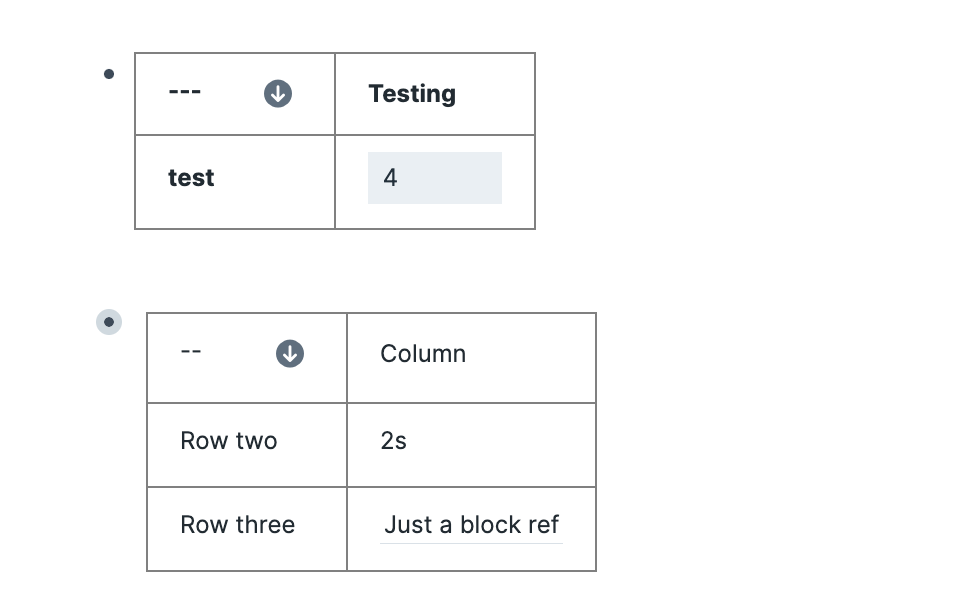
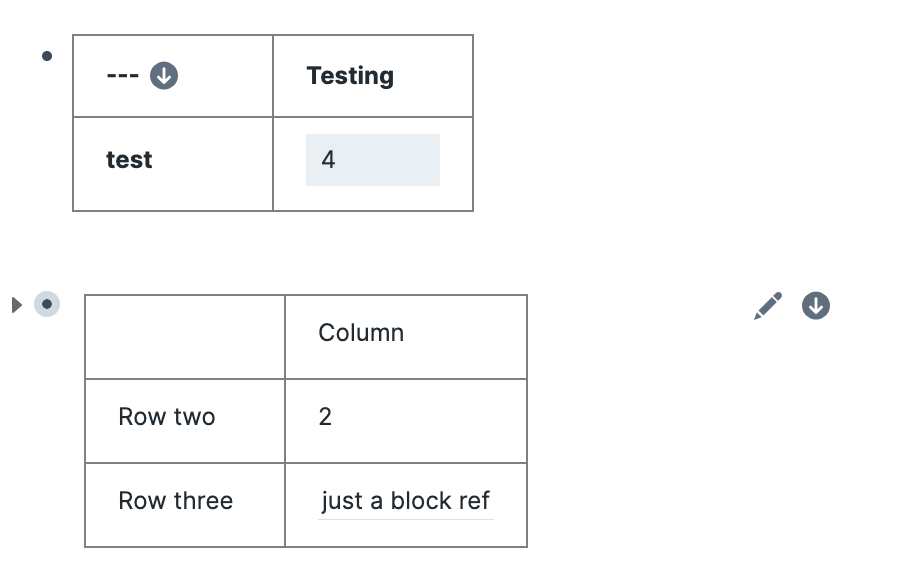
update README

diff --git a/README.md b/README.md
@@ -1,4 +1,4 @@
-Adds a button to export a Roam table or Attribute table to CSV
+Adds a button on hover to export a Roam table or Attribute table to CSV
 
 
 ## Example 
